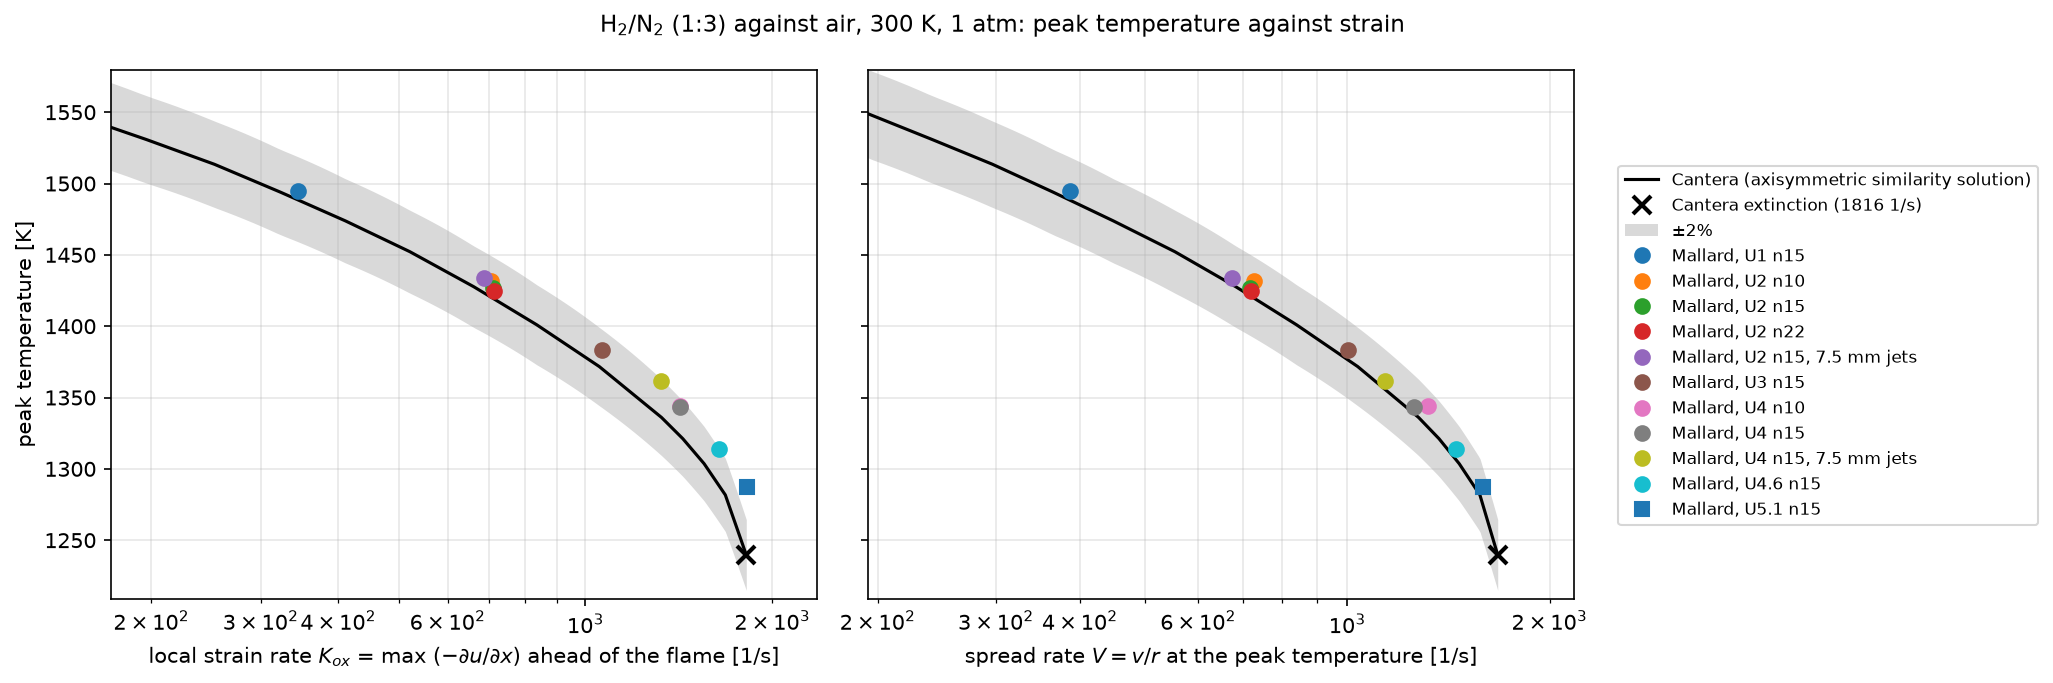
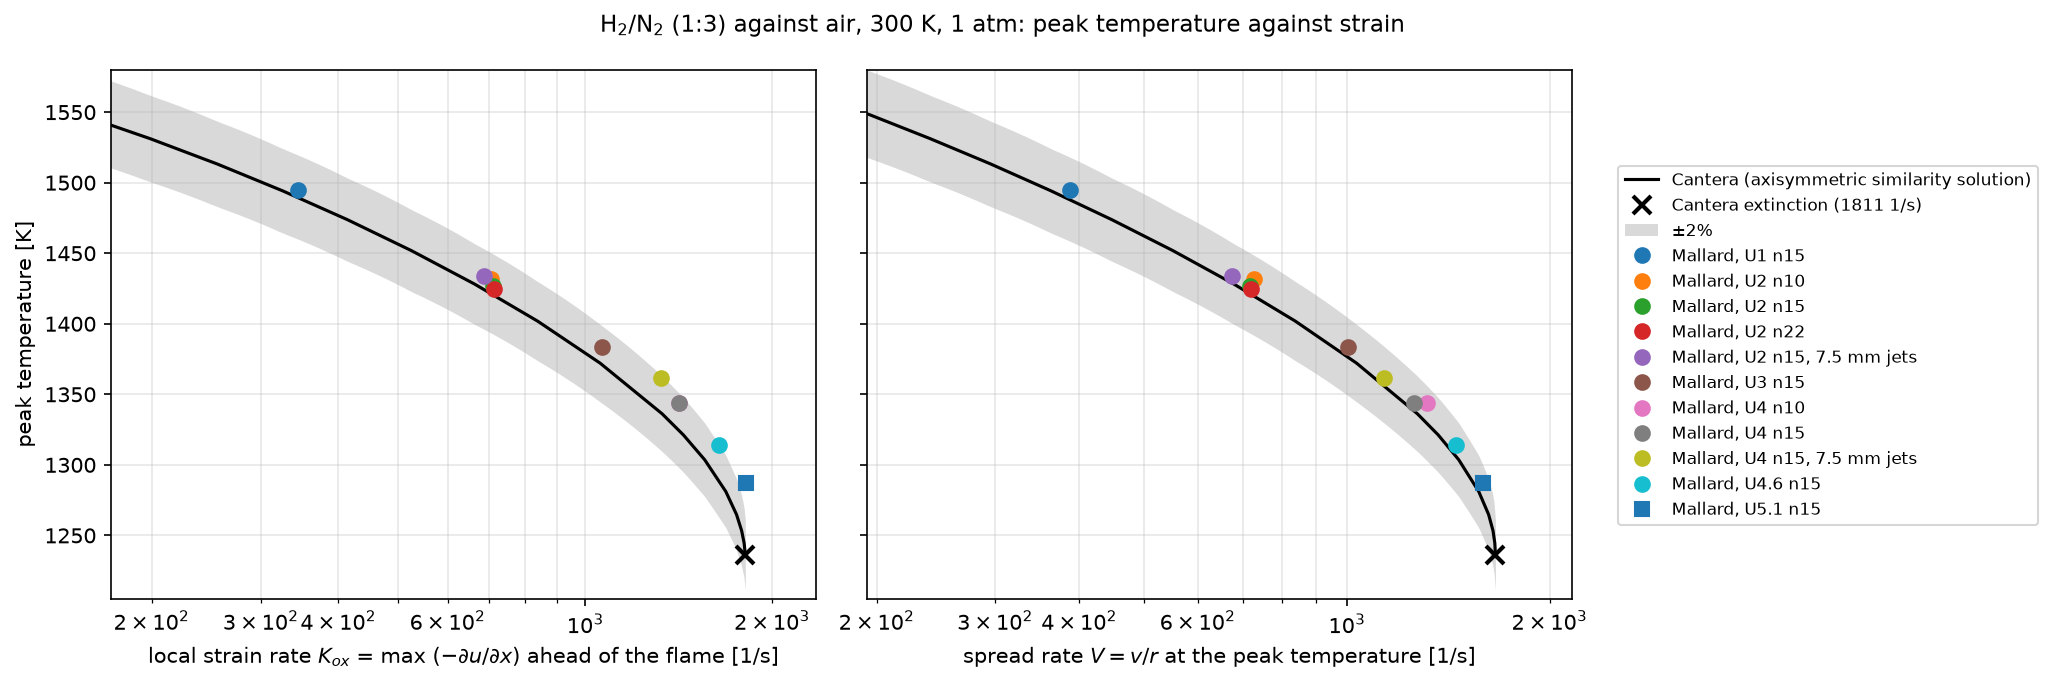
counterflow_strain.png redrawn from the grid-converged strain.csv (supersedes #1227)

diff --git a/examples/counterflow_diffusion/README.md b/examples/counterflow_diffusion/README.md
@@ -73,6 +73,8 @@ are at its end, 5.4-6.3 / `K_ox`.
 
 ![Peak temperature against strain](../../docs/images/counterflow_strain.png)
 
+*The table's Mallard runs (#171) against the grid-converged `strain.csv`.*
+
 With the 5 mm jets, the peak temperature at matched `K_ox` is within 2% of
 Cantera's up to 1640 1/s, 91% of Cantera's extinction strain rate (1811
 1/s), but the excess grows with strain, from 0.35% at 344 1/s to 1.9% at 1640
